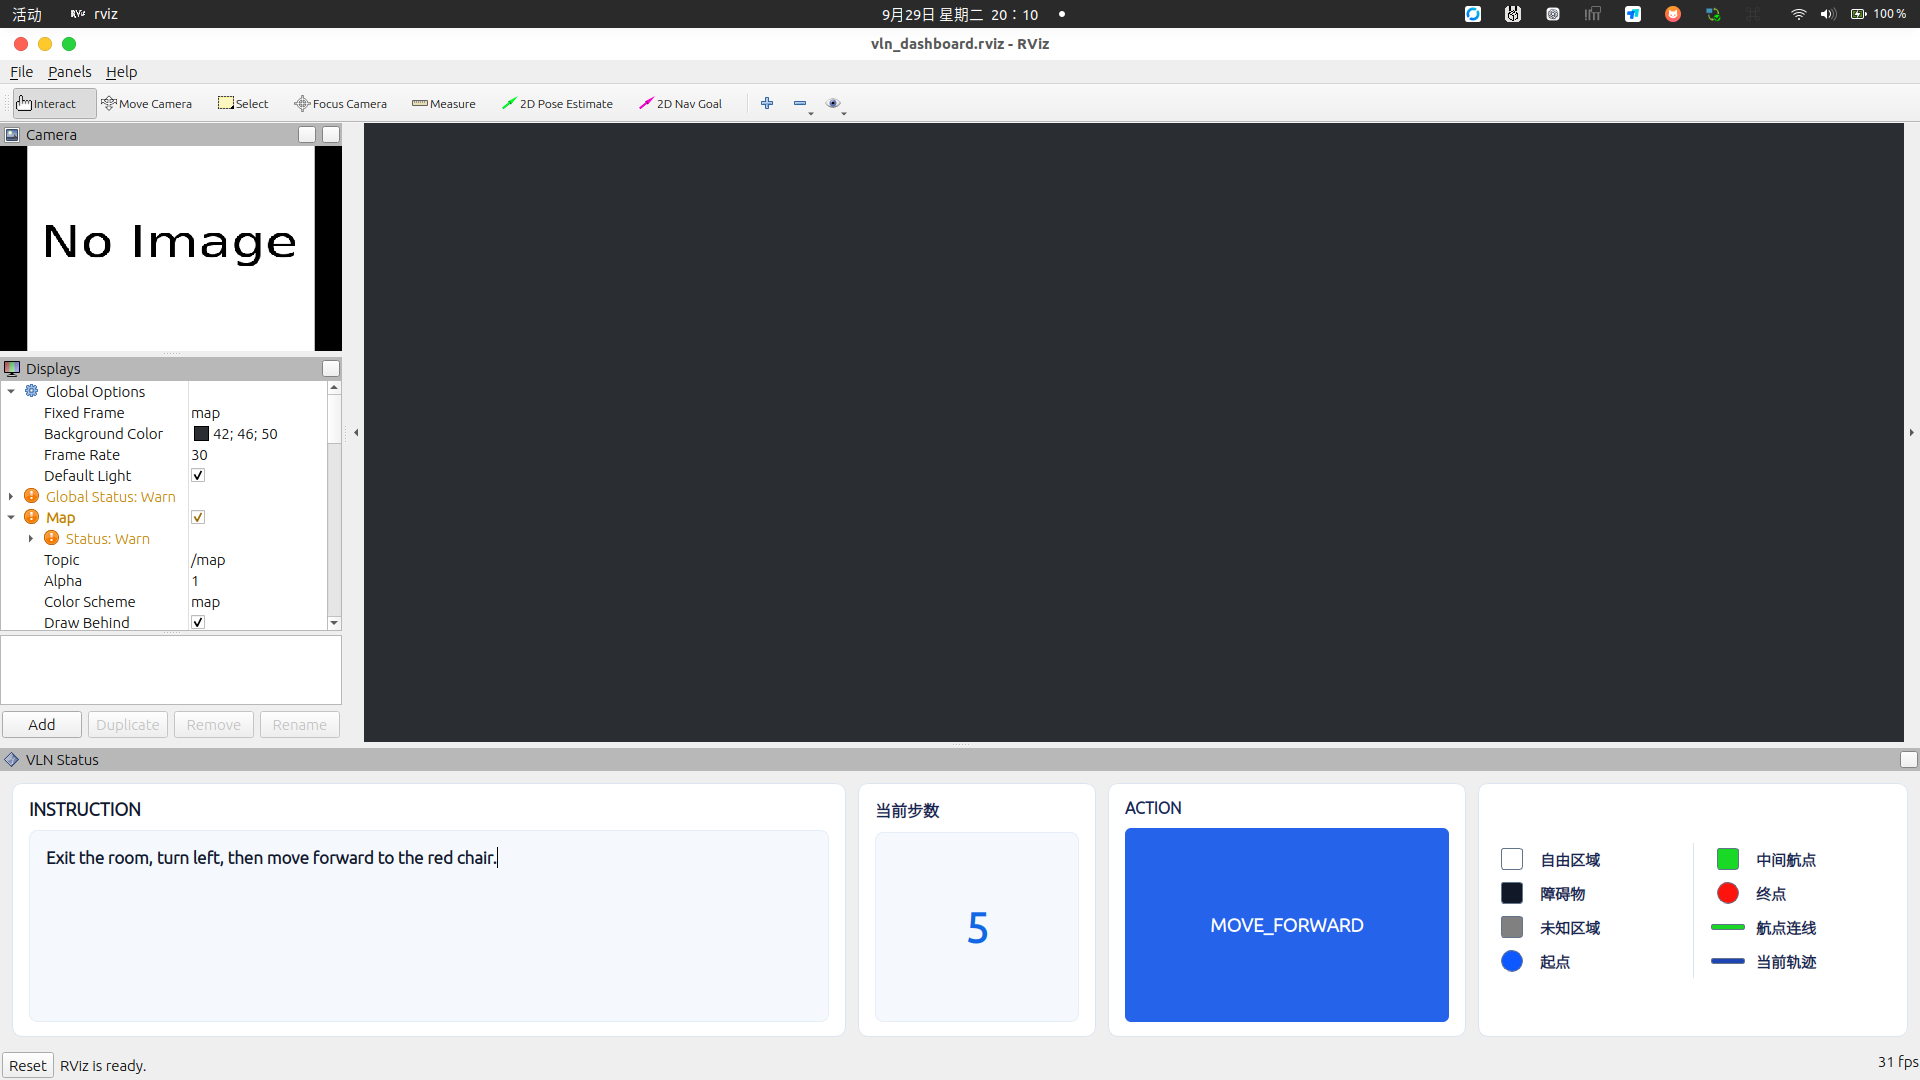
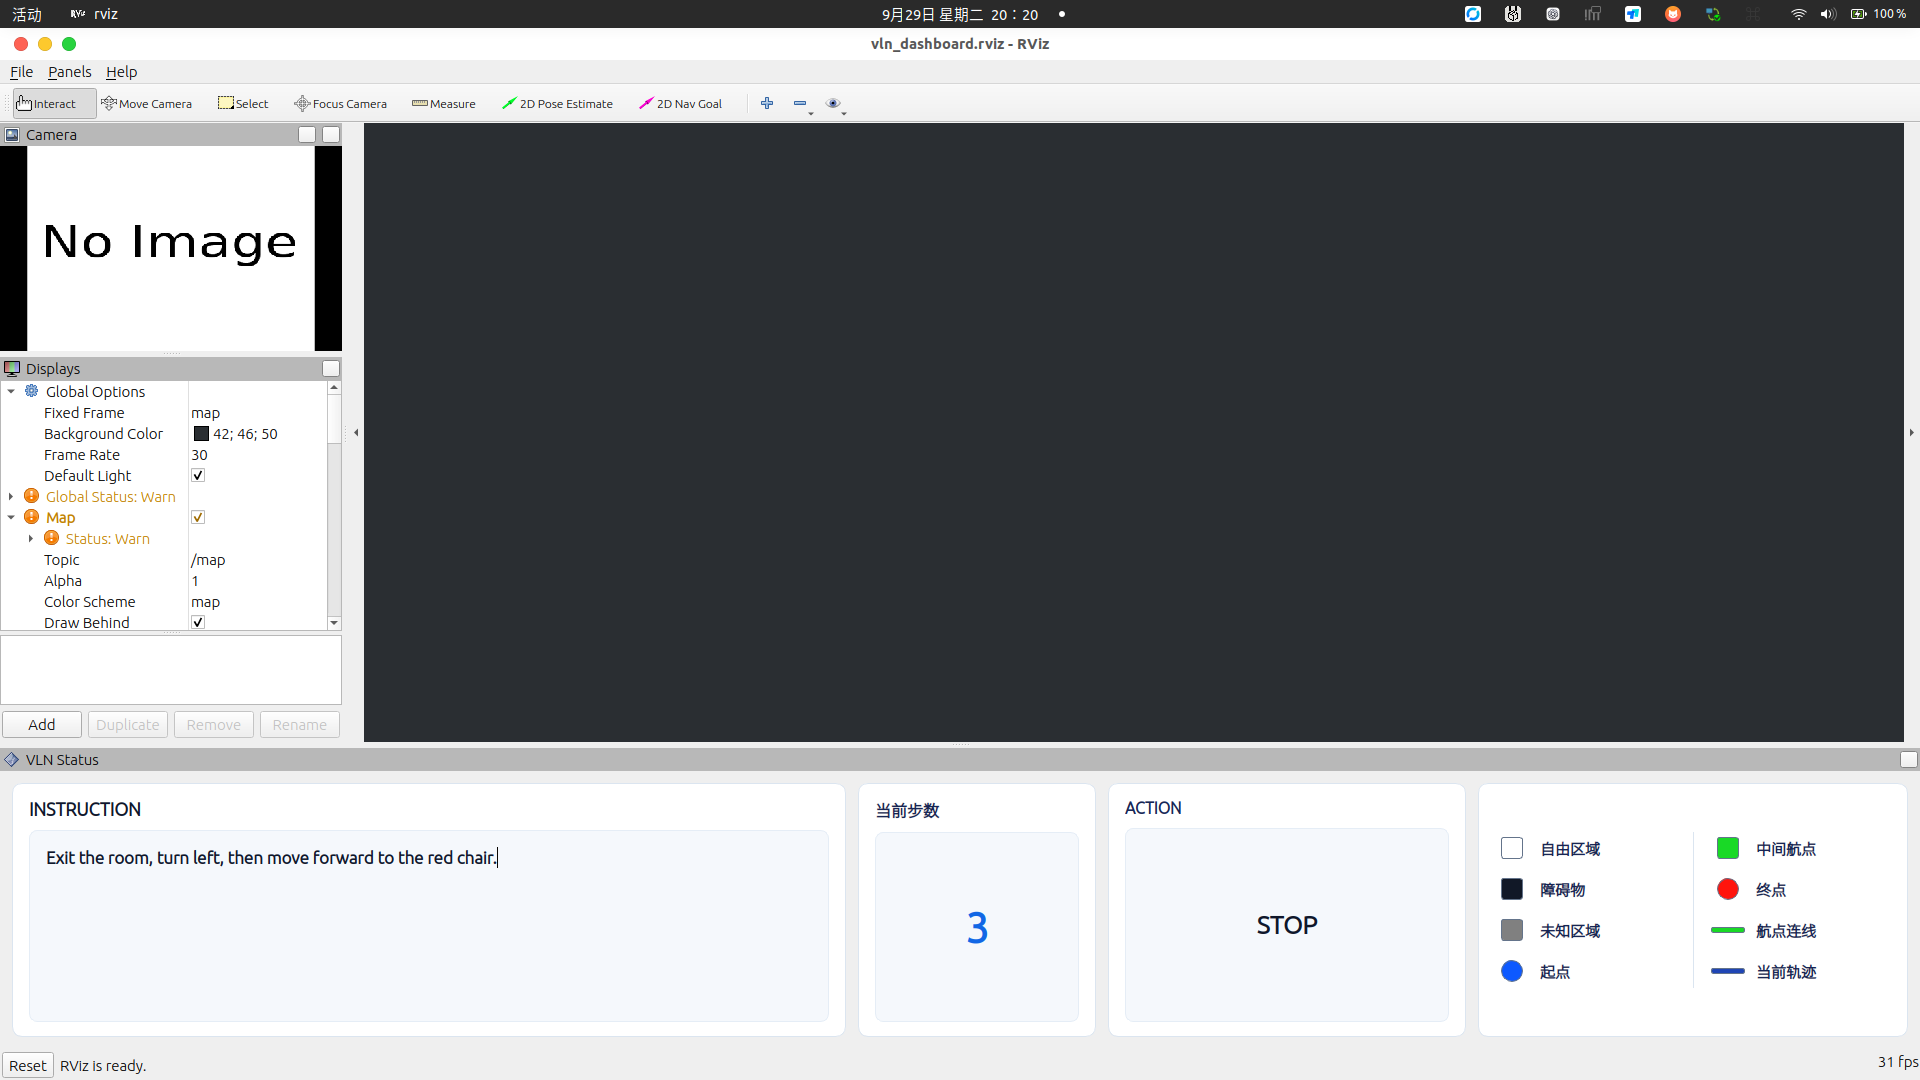
可视化优化

Changed region(s): [[0.5625, 0.7639, 0.8438, 0.9472], [0.875, 0.7639, 0.9688, 0.9167]]

diff --git a/rviz_vln_panel/src/vln_status_panel.cpp b/rviz_vln_panel/src/vln_status_panel.cpp
@@ -165,7 +165,7 @@ VlnStatusPanel::VlnStatusPanel(QWidget* parent)
 
   QVBoxLayout* left_legend = new QVBoxLayout();
   left_legend->setContentsMargins(0, 0, 0, 0);
-  left_legend->setSpacing(1);
+  left_legend->setSpacing(8);
   left_legend->addWidget(
       makeLegendItem(QString::fromUtf8("自由区域"), "#ffffff", "square", legend_card));
   left_legend->addWidget(
@@ -177,7 +177,7 @@ VlnStatusPanel::VlnStatusPanel(QWidget* parent)
 
   QVBoxLayout* right_legend = new QVBoxLayout();
   right_legend->setContentsMargins(0, 0, 0, 0);
-  right_legend->setSpacing(1);
+  right_legend->setSpacing(8);
   right_legend->addWidget(
       makeLegendItem(QString::fromUtf8("中间航点"), "#19d926", "square", legend_card));
   right_legend->addWidget(
@@ -213,7 +213,6 @@ VlnStatusPanel::VlnStatusPanel(QWidget* parent)
   action_subscriber_ = node_handle_.subscribe(
       "/vln/action", 10, &VlnStatusPanel::actionCallback, this);
 
-  setActionStyle(QString());
   QTimer::singleShot(0, this, &VlnStatusPanel::dockAtBottom);
 }
 
@@ -259,9 +258,6 @@ void VlnStatusPanel::updateAction(const QString& payload)
   if (clean_payload.isEmpty())
   {
     action_value_->setText("INVALID ACTION");
-    action_value_->setStyleSheet(
-        "background: #b91c1c; border: none; border-radius: 6px; "
-        "color: white; font-size: 19px; font-weight: 800;");
     return;
   }
 
@@ -274,9 +270,6 @@ void VlnStatusPanel::updateAction(const QString& payload)
     if (parse_error.error != QJsonParseError::NoError || !document.isObject())
     {
       action_value_->setText("INVALID ACTION");
-      action_value_->setStyleSheet(
-          "background: #b91c1c; border: none; border-radius: 6px; "
-          "color: white; font-size: 19px; font-weight: 800;");
       return;
     }
     action = document.object().value("action").toString().trimmed();
@@ -286,38 +279,12 @@ void VlnStatusPanel::updateAction(const QString& payload)
   if (action.isEmpty())
   {
     action_value_->setText("INVALID ACTION");
-    action_value_->setStyleSheet(
-        "background: #b91c1c; border: none; border-radius: 6px; "
-        "color: white; font-size: 19px; font-weight: 800;");
     return;
   }
 
   ++step_count_;
   step_value_->setText(QString::number(step_count_));
   action_value_->setText(action);
-  setActionStyle(action);
-}
-
-void VlnStatusPanel::setActionStyle(const QString& action)
-{
-  QString color = "#64748b";
-  if (action == "MOVE_FORWARD")
-  {
-    color = "#2563eb";
-  }
-  else if (action == "TURN_LEFT" || action == "TURN_RIGHT")
-  {
-    color = "#d97706";
-  }
-  else if (action == "STOP")
-  {
-    color = "#dc2626";
-  }
-
-  action_value_->setStyleSheet(
-      "background: " + color +
-      "; border: none; border-radius: 6px; color: white; "
-      "font-size: 19px; font-weight: 800;");
 }
 
 }  // namespace rviz_vln_panel

diff --git a/rviz_vln_panel/include/rviz_vln_panel/vln_status_panel.h b/rviz_vln_panel/include/rviz_vln_panel/vln_status_panel.h
@@ -29,7 +29,6 @@ private Q_SLOTS:
 
 private:
   void actionCallback(const std_msgs::String::ConstPtr& message);
-  void setActionStyle(const QString& action);
 
   ros::NodeHandle node_handle_;
   ros::Subscriber action_subscriber_;
